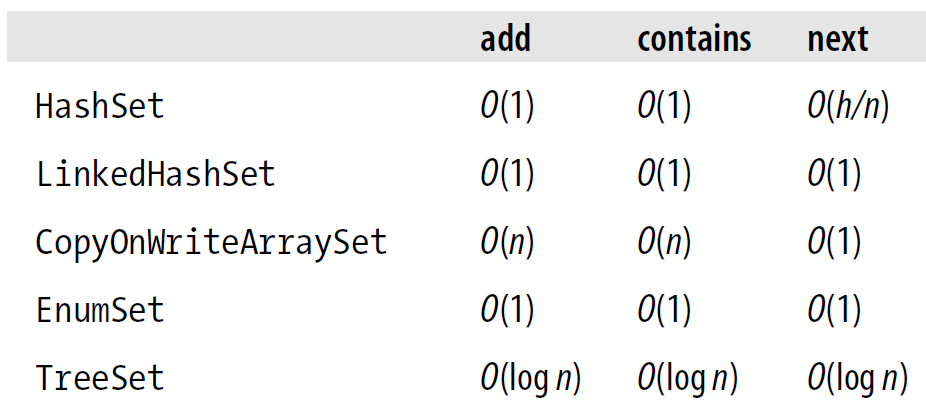
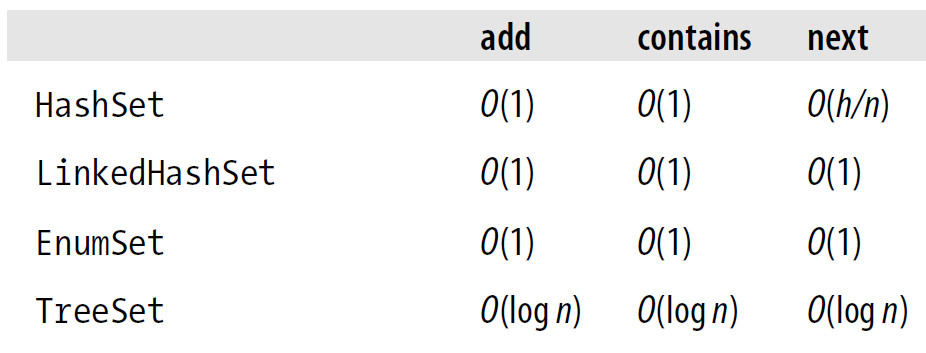
Enhance collections slides

diff --git a/04-collections-and-generics/lecture/PITCHME.md b/04-collections-and-generics/lecture/PITCHME.md
@@ -114,27 +114,6 @@ Object[] toArray()
 
 ---
 
-![Cheat sheet](images/04.4-cheat-sheet.png?raw=true)
-
----
-
-__java.lang.Comparable vs java.util.Comparator__
-
-```
-public interface Comparable<T> {
-	public int compareTo(T o);
-}
-
-public interface Comparator<T> {
-	int compare(T o1, T o2);
-}
-```
-
-@[1-3]
-@[5-7]
-
----
-
 __List__
 
 ```java
@@ -165,10 +144,10 @@ List<E> subList(int fromIndex, int toIndex)
 
 #### Имплементации на List
 
-- ArrayList - списък върху динамичен масив
-- LinkedList - свързан списък
-- Vector - динамичен масив
-- Stack - стек
+- ArrayList - resize-ващ се масив
+- LinkedList - двойно свързан списък
+- Vector - resize-ващ се масив. Synchronized. Legacy
+- Stack - наследява Vector. Legacy
 
 ---
 
@@ -204,9 +183,9 @@ E remove()
 
 #### Имплементации на Queue
 
-- PriorityQueue
-- ArrayDeque
+- PriorityQueue - heap (пирамида)
 - LinkedList
+- ArrayDeque - resize-ващ се масив
 
 ---
 
@@ -238,11 +217,10 @@ Object[] toArray()
 
 #### Имплементации на Set
 
-- TreeSet
-- HashSet
-- LinkedHashSet
-- CopyOnWriteArraySet
-- EnumSet
+- TreeSet - TreeMap. Червено-черно дърво
+- HashSet - хеш таблица
+- LinkedHashSet - хеш таблица + свързан списък
+- EnumSet - битов масив
 
 ---
 
@@ -262,9 +240,26 @@ HashSet(int initialCapacity, float loadFactor);
 ```java
 TreeSet(); // natural ordering
 TreeSet(Collection<? extends E> c);
-TreeSet(Comparator<? super E> comparator); // sorted according to comparator
+TreeSet(Comparator<? super E> comparator);
 TreeSet(SortedSet<E> s);
 ```
+
+---
+
+__java.lang.Comparable vs java.util.Comparator__
+
+```
+public interface Comparable<T> {
+	public int compareTo(T o);
+}
+
+public interface Comparator<T> {
+	int compare(T o1, T o2);
+}
+```
+
+@[1-3]
+@[5-7]
 
 ---
 
@@ -282,6 +277,10 @@ Collections.addAll(sc, 'a', 'b', 'j');
 #### Алгоритмична сложност на основните операции
 
 ![SetComplexities](images/04.7-setperformance.png?raw=true)
+
+---
+
+![Cheat sheet](images/04.4-cheat-sheet.png?raw=true)
 
 ---
 
@@ -333,10 +332,10 @@ Collection<V> values()
 
 #### Имплементации на Map
 
-- HashMap
-- LinkedHashMap
-- EnumMap
-- TreeMap
+- HashMap - хеш таблица
+- LinkedHashMap - хеш таблица + свързан списък
+- EnumMap - битов масив
+- TreeMap - червено-черно дърво
 
 ---
 
